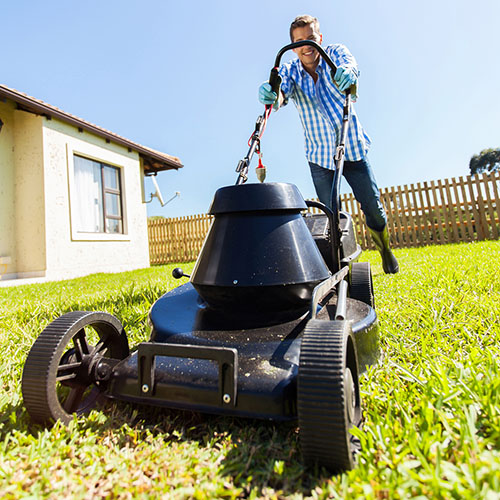
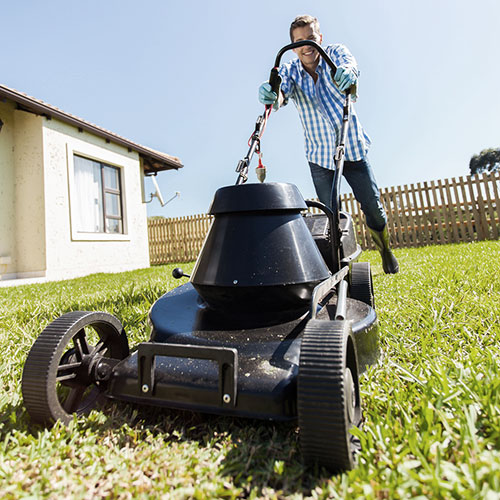
Replace mower jpg and style signup button on welcome page

diff --git a/app/assets/stylesheets/welcome.scss b/app/assets/stylesheets/welcome.scss
@@ -53,3 +53,11 @@
   height: 300px;
   width: 300px;
 }
+
+#featured {
+  width: 100%;
+}
+
+#featured img {
+  width: 100%;
+}
